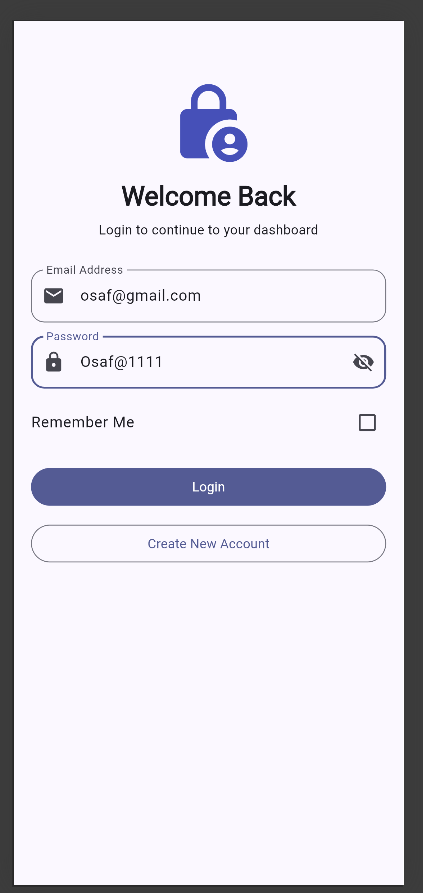
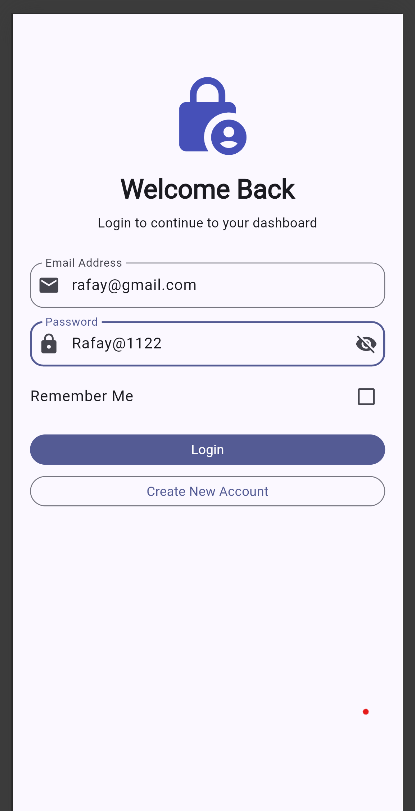
Initial Flutter app upload

diff --git a/README.md b/README.md
@@ -2,8 +2,8 @@
 
 ## Student Information
 
-**Student Name:** Osaf Imran  
-**Student ID:** SE-221055 
+**Student Name:** Abdul Rafay
+**Student ID:** Se221038
 
 ## Project Overview
 
@@ -42,4 +42,4 @@ Password must contain:
 Example valid password:
 
 ```text
-Test@123
+Rafay@1122
